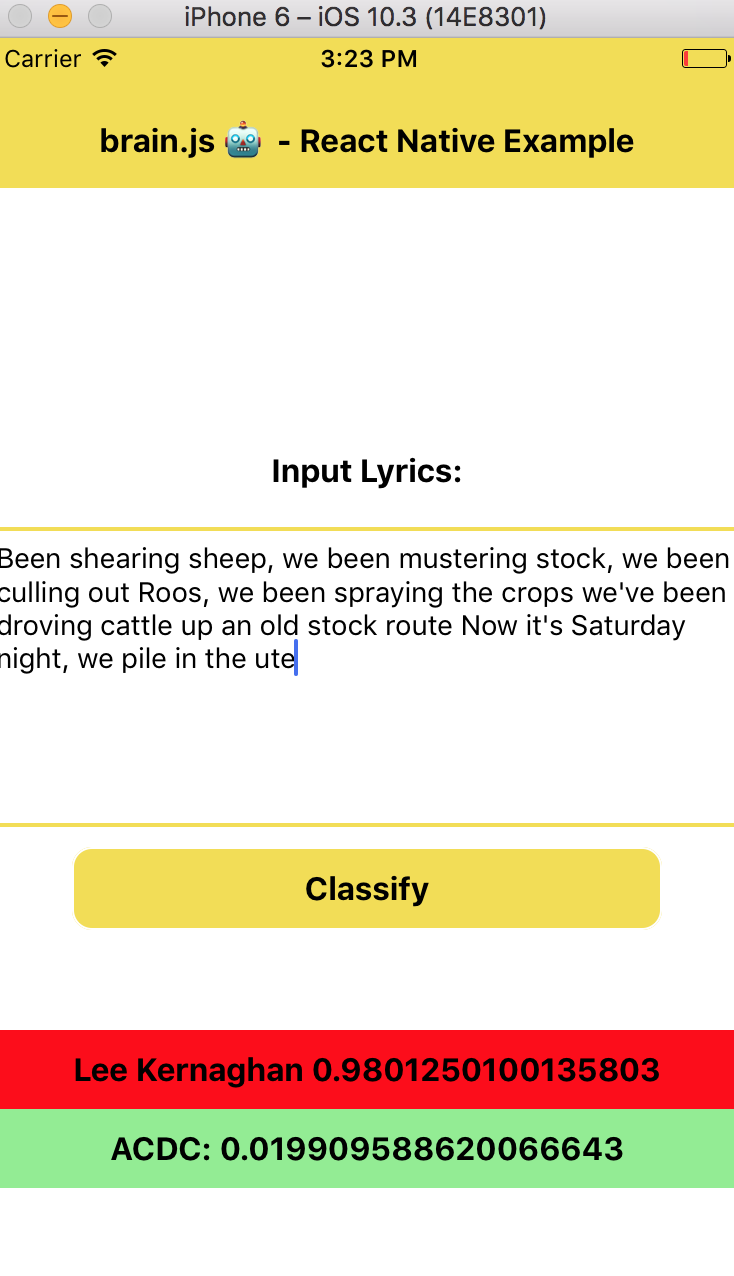
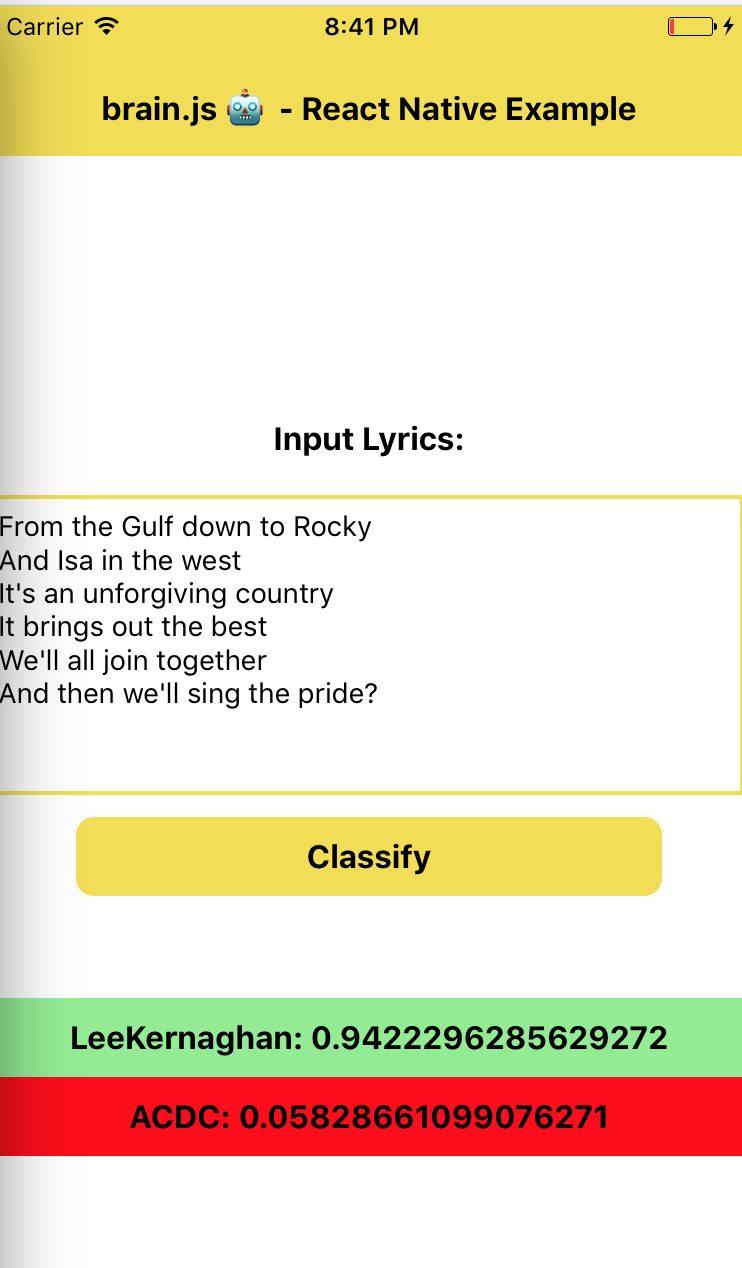
Added tests, tidied up code, squashed some bugs

Changed region(s): [[0.0, 0.0, 1.0, 1.0]]

diff --git a/BrainJSReactNativeExampleApp/App.js b/BrainJSReactNativeExampleApp/App.js
@@ -9,11 +9,12 @@ import {
 } from 'react-native';
 import classify from './Services/classify-service.js'
 import Header from './Components/header.js'
+import TextResult from './Components/textresult.js'
 
 export default class App extends Component {
 
-  constructor() {
-    super()
+  constructor(props) {
+    super(props)
 
     this.state = {
       LeeKernaghanResult:"",
@@ -26,15 +27,12 @@ export default class App extends Component {
 
   ClassifyText = () => {
 
-    console.log(this.state.lyrics)
+    let leekernaghanScore = classify.classifyLyrics(this.state.lyrics).LeeKernaghan
+    let acdcScore = classify.classifyLyrics(this.state.lyrics).ACDC
 
-    let leekernaghanScore = classify.classifyLyrics(this.state.lyrics)
-    let acdcScore = classify.classifyLyrics(this.state.lyrics)
+    console.log(typeof(leekernaghanScore))
 
-    console.log(leekernaghanScore)
-    console.log(acdcScore)
-
-    if(leekernaghanScore === NaN || leekernaghanScore === null || acdcScore === NaN || acdcScore === null) {
+    if(isNaN(leekernaghanScore) || isNaN(acdcScore)) {
       this.setState({
         LeeKernaghanResult:"Unable to determine confidence level.",
         ACDCResult:"Unable to determine confidence level.",
@@ -42,16 +40,15 @@ export default class App extends Component {
       })
       return;
     }
-
-    if(leekernaghanScore > acdcScore) {
-      this.setState({
-        LeeKernaghanResultColor:'lightgreen',
-        ACDCResultColor:'red'
-      })
-    } else {
+    if(Number(acdcScore) > Number(leekernaghanScore)) {
       this.setState({
         LeeKernaghanResultColor:'red',
         ACDCResultColor:'lightgreen'
+      })
+    } else {
+      this.setState({
+        LeeKernaghanResultColor:'lightgreen',
+        ACDCResultColor:'red'
       })
     }
 
@@ -79,38 +76,15 @@ export default class App extends Component {
           <Text style={styles.classifyTextStyle}>Classify</Text>
       </TouchableOpacity>
 
-      <Text style={{
-        fontSize:16,
-        fontWeight:"bold",
-        textAlign:"center",
-        marginTop:"10%",
-        marginTop:50,
-        paddingTop:10,
-        paddingBottom:10,
-        backgroundColor:this.state.LeeKernaghanResultColor,
-        opacity:this.state.resultShow
-      }}>
-        Lee Kernaghan {this.state.LeeKernaghanResult}
-      </Text>
-      <Text style={{
-        fontSize:16,
-        fontWeight:"bold",
-        textAlign:"center",
-        paddingTop:10,
-        paddingBottom:10,
-        backgroundColor:this.state.ACDCResultColor,
-        opacity:this.state.resultShow
-      }}>
-        ACDC: {this.state.ACDCResult}
-      </Text>
+      <TextResult resultShow={this.state.resultShow} resultColor={this.state.LeeKernaghanResultColor} resultText={"LeeKernaghan: " + this.state.LeeKernaghanResult} />
+      <TextResult resultShow={this.state.resultShow} resultColor={this.state.ACDCResultColor} resultText={"ACDC: " + this.state.ACDCResult} />
+
       </View>
     );
   }
 }
 
 const styles = StyleSheet.create({
-  container: {
-  },
   inputLyricsTextLable: {
     fontWeight:"bold",
     fontSize:16,
@@ -121,6 +95,7 @@ const styles = StyleSheet.create({
   classifyBtnStyle: {
     marginRight:40,
     marginLeft:40,
+    marginBottom:50,
     marginTop:10,
     paddingTop:10,
     paddingBottom:10,

diff --git a/BrainJSReactNativeExampleApp/Components/textresult.js b/BrainJSReactNativeExampleApp/Components/textresult.js
@@ -1,0 +1,34 @@
+import React, { Component } from 'react';
+import {
+  Platform,
+  StyleSheet,
+  Text,
+  View
+} from 'react-native';
+
+export class TextResult extends Component {
+
+    constructor(props) {
+        super(props)
+    }
+
+    render() {
+        return(
+            <View>
+                <Text style={[styles.textResult, {backgroundColor: this.props.resultColor}, {opacity: this.props.resultShow}]}>{this.props.resultText}</Text>
+            </View>
+        )
+    }
+} 
+
+const styles = StyleSheet.create({
+    textResult:{
+        fontSize:16,
+        fontWeight:"bold",
+        textAlign:"center",
+        paddingTop:10,
+        paddingBottom:10
+    }
+})
+
+export default TextResult

diff --git a/BrainJSReactNativeExampleApp/__tests__/classify-service.js b/BrainJSReactNativeExampleApp/__tests__/classify-service.js
@@ -1,0 +1,16 @@
+import 'react-native';
+import React from 'react';
+import classify from '../Services/classify-service.js'
+import diff from 'jest-diff'
+
+it('returns null on null input value', () => {
+    let results = classify.classifyLyrics(null)
+    expect(results).toBe(null)
+});
+
+it('returns NaN value for incorrect lyrics', () => {
+    let results = classify.classifyLyrics("Dummy lyrics that don't exist in trained modal.")
+    
+    expect(isNaN(results.LeeKernaghan)).toBe(isNaN(results.LeeKernaghan))
+    expect(isNaN(results.ACDC)).toBe(isNaN(results.ACDC))
+})

diff --git a/BrainJSReactNativeExampleApp/__tests__/textresult.js b/BrainJSReactNativeExampleApp/__tests__/textresult.js
@@ -1,11 +1,11 @@
 import 'react-native';
 import React from 'react';
-import App from '../App';
+import TextResult from '../Components/textresult.js';
 
 import renderer from 'react-test-renderer';
 
 it('renders correctly', () => {
   const tree = renderer.create(
-    <App />
+    <TextResult />
   );
 });

diff --git a/BrainJSReactNativeExampleApp/__tests__/header.js b/BrainJSReactNativeExampleApp/__tests__/header.js
@@ -1,11 +1,11 @@
 import 'react-native';
 import React from 'react';
-import App from '../App';
+import Header from '../Components/header.js';
 
 import renderer from 'react-test-renderer';
 
 it('renders correctly', () => {
   const tree = renderer.create(
-    <App />
+    <Header />
   );
 });

diff --git a/README.md b/README.md
@@ -1,6 +1,8 @@
 # brain.js React Native Examples
 
-In this project, you will find an trained-model.json file as well as, a index.js file. You may use the index.js file to train new models, currently this example, is trained on 10 different Drake songs, and 10 different Eminem songs. The example demonstrates how a muti-layer Neural Network, is able to classify the artist, by analysing song lyrics.
+In this project, you will find an trained-model.json file as well as, a index.js file. You may use the index.js file to train new models, currently this example, is trained on 10 different Lee Kernaghan songs, and 10 different ACDC songs. The example demonstrates how a muti-layer Neural Network, is able to classify the artist, by analysing song lyrics.
+
+<img src="https://github.com/BrainJS/ReactNative/blob/master/example.png?raw=true" width="275" height="500" alt="example">
 
 # Files
 
@@ -13,8 +15,8 @@ In this project, you will find an trained-model.json file as well as, a index.js
 
 # Setting up a new React Native project to work with brain.js
 
- 1. npm install 
- 2. npm install brain.js --save (within the react native directory)
+ 1. npm install in the main directory
+ 2. npm install in the BrainJSReactNativeExample directory
  3. navigate to the package install in your node modules folder, navigate to train-stream.js file under brain.js --> dist and remove the require statement for stream, it should look like this:
 
     var _stream = require('stream');
